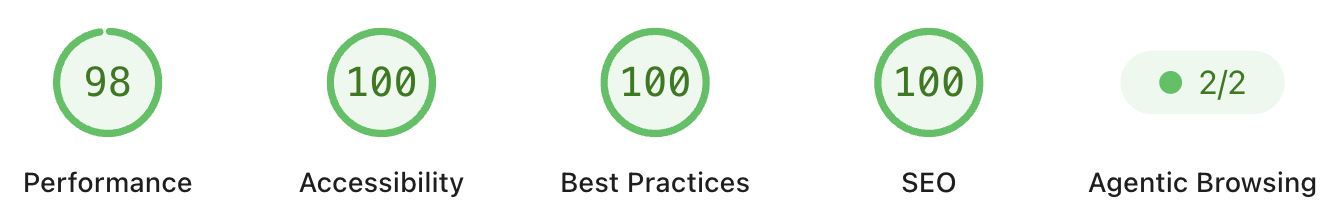
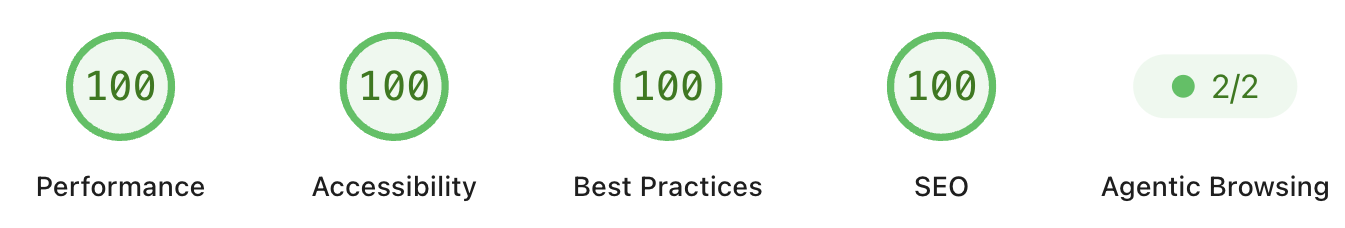
Update cleanup-pass field note to 100 on mobile and desktop
New mobile PageSpeed screenshot at 100 across the board. State 100 on
both form factors with no earlier scores, rewrite the mobile paragraph
as what it took (adding HTML compression and the reserved nav space),
point both View Full Report buttons at the new run, and move the
byline to September 2026.

diff --git a/field-notes/the-cleanup-pass.html b/field-notes/the-cleanup-pass.html
@@ -9,7 +9,7 @@
 
     <meta
       name="description"
-      content="A walkthrough of the pass that took this site's own Lighthouse scores to 100 across the board on desktop and 98 on mobile - image bugs, missing landmarks, touch targets, and alt text, one category at a time." />
+      content="A walkthrough of the pass that took this site's own Lighthouse scores to 100 across the board on desktop and mobile - image bugs, missing landmarks, touch targets, and alt text, one category at a time." />
 
     <meta charset="utf-8" />
 
@@ -63,7 +63,7 @@
         "@type": "Article",
         "@id": "https://scottlabz.com/field-notes/the-cleanup-pass.html",
         "headline": "The Cleanup Pass",
-        "description": "A walkthrough of the pass that took this site's own Lighthouse scores to 100 across the board on desktop and 98 on mobile, one category at a time.",
+        "description": "A walkthrough of the pass that took this site's own Lighthouse scores to 100 across the board on desktop and mobile, one category at a time.",
         "url": "https://scottlabz.com/field-notes/the-cleanup-pass.html",
         "author": {
           "@id": "https://scottlabz.com/#scotttaylor"
@@ -79,7 +79,7 @@
     <meta property="og:title" content="The Cleanup Pass | Scott Labz" />
     <meta
       property="og:description"
-      content="A walkthrough of the pass that took this site's own Lighthouse scores to 100 across the board on desktop and 98 on mobile, one category at a time." />
+      content="A walkthrough of the pass that took this site's own Lighthouse scores to 100 across the board on desktop and mobile, one category at a time." />
     <meta
       property="og:url"
       content="https://scottlabz.com/field-notes/the-cleanup-pass.html" />
@@ -88,7 +88,7 @@
       content="https://scottlabz.com/images/og-share.png" />
     <meta name="twitter:card" content="summary_large_image" />
     <meta name="twitter:title" content="The Cleanup Pass | Scott Labz" />
-    <meta name="twitter:description" content="A walkthrough of the pass that took this site's own Lighthouse scores to 100 across the board on desktop and 98 on mobile, one category at a time." />
+    <meta name="twitter:description" content="A walkthrough of the pass that took this site's own Lighthouse scores to 100 across the board on desktop and mobile, one category at a time." />
     <meta name="twitter:image" content="https://scottlabz.com/images/og-share.png" />
 
     <style>
@@ -227,7 +227,7 @@
           </p>
           <h1 class="major">The Cleanup Pass</h1>
 
-          <p class="byline">By <a href="/founder.html">Scott Taylor</a> - July 2026</p>
+          <p class="byline">By <a href="/founder.html">Scott Taylor</a> - September 2026</p>
           <p class="major">
             <a href="/field-notes/" class="back-to-notes">
               <i class="fas fa-arrow-left"></i>
@@ -253,8 +253,8 @@
             - Performance, Accessibility, Best Practices, and SEO - and a page
             can look completely fine while quietly failing several of them at
             once. This is the pass that took this site's own scores from a mixed
-            bag to 100 across the board on desktop and 98 Performance with 100
-            on the rest on mobile, not from one large fix, but from clearing a
+            bag to 100 across the board on both desktop and mobile, not from
+            one large fix, but from clearing a
             list of small, specific ones.
           </p>
           <p>
@@ -442,9 +442,8 @@
         <section class="section-block">
           <h2>The scores</h2>
           <p>
-            Desktop landed at 100 Performance, 100 Accessibility, 100 Best
-            Practices, and 100 SEO. Mobile now sits at 98 Performance, with
-            Accessibility, Best Practices, and SEO all also at 100.
+            Desktop and mobile both landed at 100 Performance, 100
+            Accessibility, 100 Best Practices, and 100 SEO.
           </p>
           <div class="score-shots">
             <div class="score-shot desktop">
@@ -461,7 +460,7 @@
                   title="Lighthouse desktop scores: 100 Performance, 100 Accessibility, 100 Best Practices, 100 SEO"
                   loading="lazy" />
                 <a
-                  href="https://pagespeed.web.dev/analysis/https-scottlabz-com/u6mhjrx7rc?form_factor=desktop"
+                  href="https://pagespeed.web.dev/analysis/https-scottlabz-com/m82rs0395z?form_factor=desktop"
                   target="_blank"
                   rel="noopener"
                   class="score-shot-link"
@@ -476,14 +475,14 @@
               </div>
               <div class="score-shot-body">
                 <img
-                  src="../images/pagespeed-mobile.png?v=213fafacb7"
+                  src="../images/pagespeed-mobile.png?v=82d9b2b955"
                   width="1382"
                   height="198"
-                  alt="Lighthouse mobile scores: 98 Performance, 100 Accessibility, 100 Best Practices, 100 SEO"
-                  title="Lighthouse mobile scores: 98 Performance, 100 Accessibility, 100 Best Practices, 100 SEO"
+                  alt="Lighthouse mobile scores: 100 Performance, 100 Accessibility, 100 Best Practices, 100 SEO"
+                  title="Lighthouse mobile scores: 100 Performance, 100 Accessibility, 100 Best Practices, 100 SEO"
                   loading="lazy" />
                 <a
-                  href="https://pagespeed.web.dev/analysis/https-scottlabz-com/u6mhjrx7rc?form_factor=mobile"
+                  href="https://pagespeed.web.dev/analysis/https-scottlabz-com/m82rs0395z?form_factor=mobile"
                   target="_blank"
                   rel="noopener"
                   class="score-shot-link"
@@ -493,25 +492,23 @@
             </div>
           </div>
           <p>
-            The mobile Performance score is the one that stayed short of full
-            marks. It finished this pass at 94, and two follow-up rounds took
-            it to 98. Images below the fold now load only when scrolled into
-            view, the largest images were
+            Mobile took the most work, because it has to hold up on slower
+            processors and connections than a desktop environment. Images
+            below the fold load only when scrolled into view, the largest
+            images were
             <a href="/signals/re-encode-from-the-original.html">re-encoded from their original files</a>,
             the tag manager waits until the page has finished loading, and a
             <a href="/signals/whats-hiding-behind-the-library.html">JS library and three plugins</a>
             the site no longer needed came out entirely. The navigation and
             footer stopped forcing the browser to recalculate layout while the
-            page was still loading, the logo now comes in several sizes so a
-            phone downloads a file sized for its screen, and the regular text
-            weight is preloaded alongside the light one. Those rounds also
+            page was still loading, the logo comes in several sizes so a phone
+            downloads a file sized for its screen, and the regular text weight
+            is preloaded alongside the light one. Pages are compressed before
+            they leave the edge, and the space for the navigation is reserved
+            up front, so the page doesn't jump when it renders. The work also
             turned up a quieter problem: the icons were set in italic by
             default, which pulled two italic font files onto pages with no
-            italic text at all. The remaining gap
-            tracks the real constraints of mobile - slower processors and
-            connections than a desktop environment - and closing it further
-            would mean trading against those constraints rather than fixing
-            another bug.
+            italic text at all.
           </p>
         </section>
 
@@ -609,7 +606,7 @@
       <script src="/assets/js/main-min.js?v=1642cfb5cb" defer></script>
       <script src="/assets/js/footer-min.js?v=a6201540f2" defer></script>
       <scott-footer
-        description="A walkthrough of the pass that took this site's own Lighthouse scores to 100 across the board on desktop and 98 on mobile, one category at a time."></scott-footer>
+        description="A walkthrough of the pass that took this site's own Lighthouse scores to 100 across the board on desktop and mobile, one category at a time."></scott-footer>
     </div>
   </body>
 </html>
